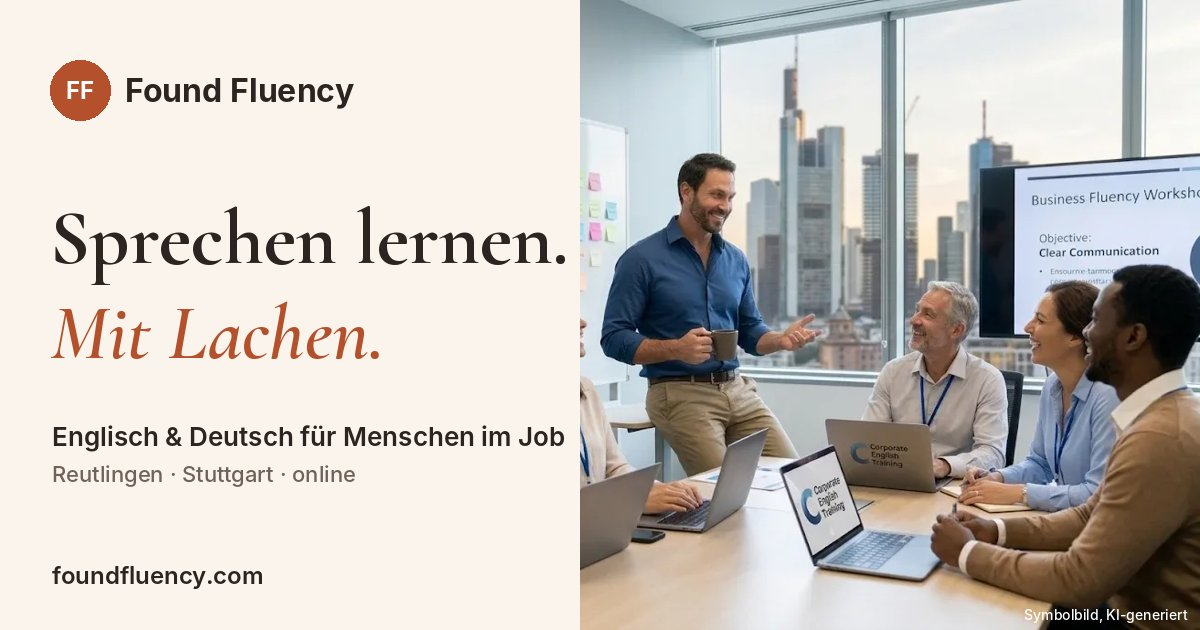
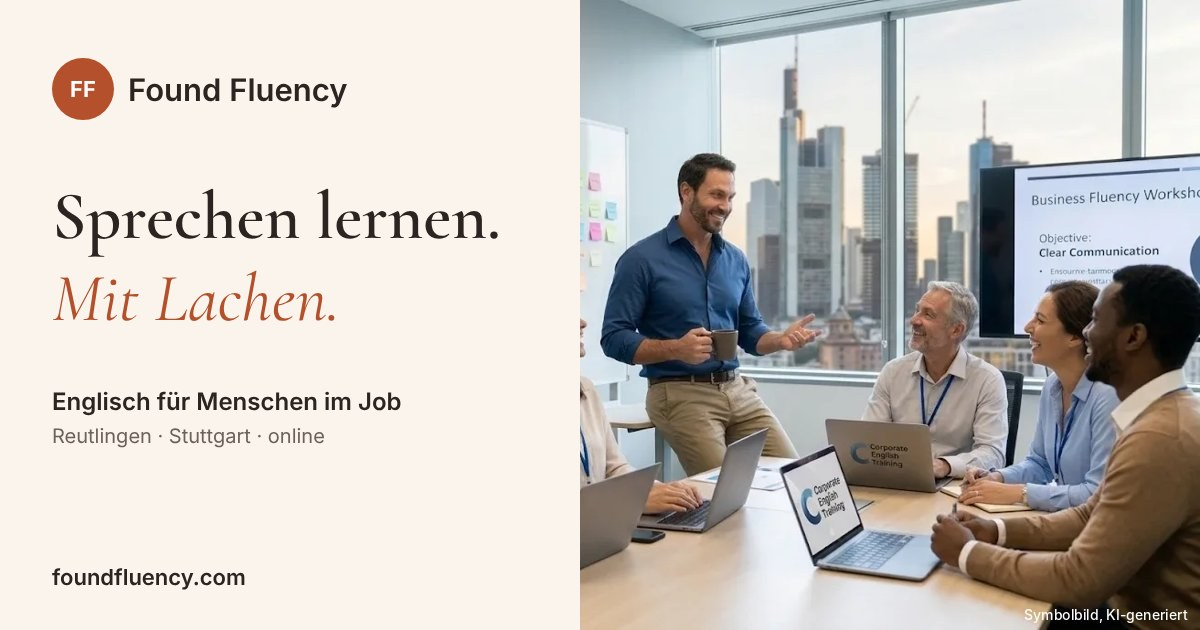
English only: remove German from tagline, page title, offers text and share image
Claude-Session: https://claude.ai/code/session_01FQZqsZMHNwXoRY3JVWwJyX

diff --git a/index.html b/index.html
@@ -3,13 +3,13 @@
 <head>
     <meta charset="UTF-8">
     <meta name="viewport" content="width=device-width, initial-scale=1.0">
-    <title>Found Fluency | Englisch & Deutsch im Beruf | Reutlingen & Stuttgart</title>
-    <meta name="description" content="Found Fluency – Englisch & Deutsch für Menschen im Job, vom Hallenboden bis in die Chefetage. Live-Training mit Humor bei Reutlingen/Stuttgart und online, ein klarer Ablauf für Unternehmen und ein KI-Sprechcoach für die Zeit dazwischen.">
+    <title>Found Fluency | Englisch im Beruf | Reutlingen & Stuttgart</title>
+    <meta name="description" content="Found Fluency – Englisch für Menschen im Job, vom Hallenboden bis in die Chefetage. Live-Training mit Humor bei Reutlingen/Stuttgart und online, ein klarer Ablauf für Unternehmen und ein KI-Sprechcoach für die Zeit dazwischen.">
     <link rel="canonical" href="https://www.foundfluency.com/">
     <meta property="og:type" content="website">
     <meta property="og:site_name" content="Found Fluency">
     <meta property="og:title" content="Found Fluency – Sprechen lernen. Mit Lachen.">
-    <meta property="og:description" content="Englisch & Deutsch für Menschen im Job – live, mit Humor und einem klaren Plan.">
+    <meta property="og:description" content="Englisch für Menschen im Job – live, mit Humor und einem klaren Plan.">
     <meta property="og:url" content="https://www.foundfluency.com/">
     <meta property="og:image" content="https://www.foundfluency.com/img/og.jpg">
     <meta property="og:image:width" content="1200">
@@ -30,7 +30,7 @@
                 <div class="w-11 h-11 rounded-full bg-terracotta flex items-center justify-center text-white font-serif font-bold text-xl shadow-md transition-transform group-hover:scale-105 border-2 border-softGold/40">FF</div>
                 <div class="flex flex-col">
                     <span class="font-serif font-bold text-2xl tracking-tight leading-none text-white">Found Fluency</span>
-                    <span class="text-[10px] uppercase tracking-widest text-softGold font-semibold mt-0.5" data-de="Englisch & Deutsch im Beruf" data-en="English & German at work">Englisch & Deutsch im Beruf</span>
+                    <span class="text-[10px] uppercase tracking-widest text-softGold font-semibold mt-0.5" data-de="Englisch im Beruf" data-en="English at work">Englisch im Beruf</span>
                 </div>
             </a>
 
@@ -94,9 +94,9 @@
                         </h1>
 
                         <p class="text-lg sm:text-xl text-white/90 font-light leading-relaxed"
-                           data-de="Englisch und Deutsch für Menschen im Job – vom Hallenboden bis in die Chefetage. Live-Training mit Humor, ein klarer Plan für Ihr Team und eine KI-App für die Zeit dazwischen."
-                           data-en="English and German for working people – from the shop floor to the boardroom. Live training with humour, a clear plan for your team and an AI app for the time in between.">
-                            Englisch und Deutsch für Menschen im Job – vom Hallenboden bis in die Chefetage. Live-Training mit Humor, ein klarer Plan für Ihr Team und eine KI-App für die Zeit dazwischen.
+                           data-de="Englisch für Menschen im Job – vom Hallenboden bis in die Chefetage. Live-Training mit Humor, ein klarer Plan für Ihr Team und eine KI-App für die Zeit dazwischen."
+                           data-en="English for working people – from the shop floor to the boardroom. Live training with humour, a clear plan for your team and an AI app for the time in between.">
+                            Englisch für Menschen im Job – vom Hallenboden bis in die Chefetage. Live-Training mit Humor, ein klarer Plan für Ihr Team und eine KI-App für die Zeit dazwischen.
                         </p>
 
                         <div class="pt-4 flex flex-col sm:flex-row items-center justify-center lg:justify-start gap-4">
@@ -282,7 +282,7 @@
                             </div>
                             <span class="inline-block px-3 py-1 rounded-full bg-terracotta/10 text-terracotta text-xs font-bold mb-3" data-de="Vor Ort, online oder hybrid" data-en="On site, online or hybrid">Vor Ort, online oder hybrid</span>
                             <h3 class="text-3xl font-serif font-bold text-textDark mb-3">Found Fluency</h3>
-                            <p class="text-sm text-textDark/80 leading-relaxed mb-6" data-de="Live-Training für Gruppen und Einzelne – Englisch und Deutsch, an Ihren echten Situationen statt am Lehrbuch." data-en="Live training for groups and individuals – English and German, with your real situations instead of a textbook.">Live-Training für Gruppen und Einzelne – Englisch und Deutsch, an Ihren echten Situationen statt am Lehrbuch.</p>
+                            <p class="text-sm text-textDark/80 leading-relaxed mb-6" data-de="Live-Training für Gruppen und Einzelne – auf Englisch, an Ihren echten Situationen statt am Lehrbuch." data-en="Live training for groups and individuals – in English, with your real situations instead of a textbook.">Live-Training für Gruppen und Einzelne – auf Englisch, an Ihren echten Situationen statt am Lehrbuch.</p>
                             <ul class="space-y-2.5 text-sm text-textDark/85 mb-8 font-medium">
                                 <li class="flex items-center gap-2.5"><i class="fa-solid fa-check text-terracotta"></i><span data-de="Englische Muttersprachler" data-en="Native English speakers">Englische Muttersprachler</span></li>
                                 <li class="flex items-center gap-2.5"><i class="fa-solid fa-check text-terracotta"></i><span data-de="Bei Ihnen vor Ort oder online" data-en="At your company or online">Bei Ihnen vor Ort oder online</span></li>
@@ -574,7 +574,7 @@
                         <div class="w-9 h-9 rounded-full bg-terracotta flex items-center justify-center text-white font-serif font-bold text-base border border-softGold/30">FF</div>
                         <span class="font-serif font-bold text-2xl text-white tracking-tight">Found Fluency</span>
                     </div>
-                    <p class="text-sm text-white/75 max-w-sm leading-relaxed" data-de="Englisch & Deutsch im Beruf – bei Reutlingen, Stuttgart und online." data-en="English & German at work – near Reutlingen, Stuttgart and online.">Englisch & Deutsch im Beruf – bei Reutlingen, Stuttgart und online.</p>
+                    <p class="text-sm text-white/75 max-w-sm leading-relaxed" data-de="Englisch im Beruf – bei Reutlingen, Stuttgart und online." data-en="English at work – near Reutlingen, Stuttgart and online.">Englisch im Beruf – bei Reutlingen, Stuttgart und online.</p>
                     <p class="text-sm text-white/70">E-Mail: <a href="mailto:info@foundfluency.com" class="hover:text-softGold transition-colors">info@foundfluency.com</a></p>
                 </div>
                 <div>
